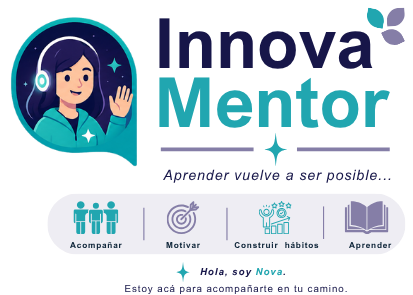
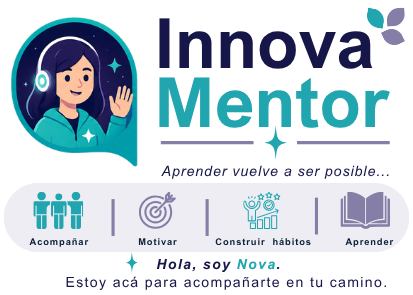
Mejora la presentación del encabezado de la aplicación

diff --git a/src/App.jsx b/src/App.jsx
@@ -75,12 +75,9 @@ const styles = {
   },
 
   navbar: {
-    backgroundColor: '#EEF4FF',
-    padding: '22px 20px',
-    textAlign: 'center',
-    borderBottomLeftRadius: '18px',
-    borderBottomRightRadius: '18px',
-    borderBottom: '1px solid #DCE7FF'
+    backgroundColor: '#F8FAFF',
+    padding: '26px 20px 12px',
+    textAlign: 'center'
   },
 
   logo: {